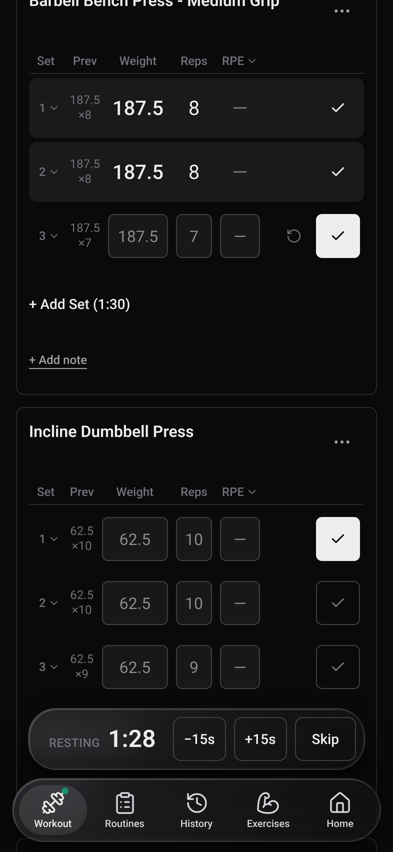
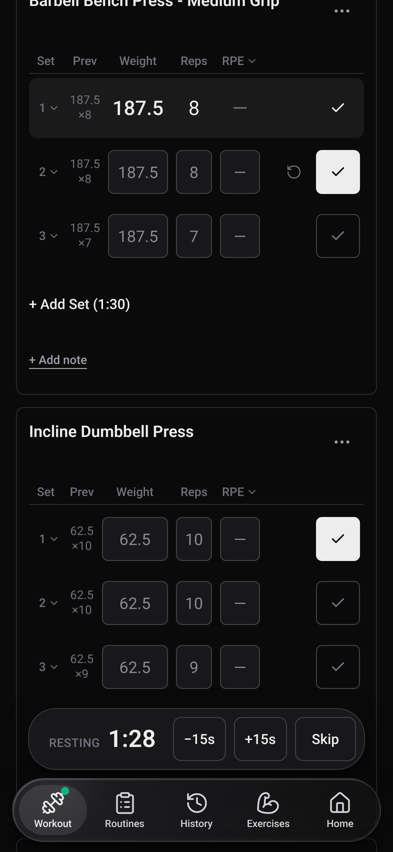
Address review: drop the timer while typing, solid timer pill with no blur (#729)
Claude-Session: https://claude.ai/code/session_01SR5G2ZrZBMs2GTziveFFfv

diff --git a/apps/web/components/bottom-tab-bar.tsx b/apps/web/components/bottom-tab-bar.tsx
@@ -33,7 +33,8 @@ export function BottomTabBar({ syncStatus }: { syncStatus?: ReactNode }) {
 
   // The bar floats over the shell's scroller rather than sitting below it, so
   // publish its height for the scroller to clear. The floating workout timers
-  // sit just above the pill itself, over the sync slot (#729).
+  // sit just above the pill itself, over the sync slot, and drop to the bottom
+  // edge while the pill is hidden for the keyboard (#729).
   useEffect(() => {
     const bar = barRef.current;
     const pill = pillRef.current;
@@ -42,10 +43,8 @@ export function BottomTabBar({ syncStatus }: { syncStatus?: ReactNode }) {
     const publish = () => {
       const barRect = bar.getBoundingClientRect();
       root.style.setProperty("--tab-bar-height", `${barRect.height}px`);
-      root.style.setProperty(
-        "--tab-pill-height",
-        `${barRect.bottom - pill.getBoundingClientRect().top}px`,
-      );
+      const pillHeight = hiddenForKeyboard ? 0 : barRect.bottom - pill.getBoundingClientRect().top;
+      root.style.setProperty("--tab-pill-height", `${pillHeight}px`);
     };
     publish();
     const observer = new ResizeObserver(publish);
@@ -55,7 +54,7 @@ export function BottomTabBar({ syncStatus }: { syncStatus?: ReactNode }) {
       root.style.removeProperty("--tab-bar-height");
       root.style.removeProperty("--tab-pill-height");
     };
-  }, []);
+  }, [hiddenForKeyboard]);
 
   return (
     // A floating Liquid Glass pill: the outer strip only positions it, and

diff --git a/apps/web/components/workout/timer-bar-chrome.ts b/apps/web/components/workout/timer-bar-chrome.ts
@@ -9,10 +9,11 @@ const DOCKED_CLASS =
  * Over the tab bar the timer floats as a glass pill of its own, just above the
  * tab pill. As a full-width opaque band it sat on top of the tab bar's sync
  * slot, so the workout showed through the gap under it and it looked like it
- * cut through the exercise cards (#729).
+ * cut through the exercise cards (#729). No backdrop blur behind its clock
+ * and buttons (#720), so `.timer-pill` is a solid fill, not glass.
  */
 const FLOATING_CLASS =
-  "tab-bar-glass sticky z-10 mx-3 flex min-w-0 items-center justify-between gap-3 rounded-[1.75rem] py-2 pl-5 pr-2";
+  "timer-pill sticky z-10 mx-3 flex min-w-0 items-center justify-between gap-3 rounded-[1.75rem] py-2 pl-5 pr-2";
 
 /** Gap between the floating timer and the tab pill under it. */
 const FLOATING_GAP = "8px";

diff --git a/apps/web/app/globals.css b/apps/web/app/globals.css
@@ -207,6 +207,21 @@ body {
   transform: translateY(calc(-1 * var(--floating-timer-height, 0px)));
 }
 
+/* The floating workout timer pill (components/workout/timer-bar-chrome.ts).
+   Shaped like the tab pill but with no backdrop-filter, since it sits behind
+   the clock and buttons (#720): a solid fill keeps them sharp. */
+.timer-pill {
+  border: 1px solid rgb(0 0 0 / 0.08);
+  background: rgb(255 255 255);
+  box-shadow: 0 10px 30px -6px rgb(0 0 0 / 0.18), 0 2px 6px rgb(0 0 0 / 0.06);
+}
+
+:root.dark .timer-pill {
+  border-color: rgb(255 255 255 / 0.12);
+  background: rgb(24 24 27);
+  box-shadow: 0 12px 32px -6px rgb(0 0 0 / 0.7), 0 2px 6px rgb(0 0 0 / 0.3);
+}
+
 /* The current tab sits in a soft lens of its own inside the pill. */
 .tab-bar-glass-active {
   background: rgb(0 0 0 / 0.06);

diff --git a/apps/web/app/__tests__/layout-guards.test.ts b/apps/web/app/__tests__/layout-guards.test.ts
@@ -27,7 +27,15 @@ describe("layout guards", () => {
       expect(bar).toContain("timerBarStyle(aboveTabBar)");
       expect(bar).toContain("usePublishFloatingTimerHeight(");
     }
+    const chrome = readFileSync(
+      path.join(webRoot, "components/workout/timer-bar-chrome.ts"),
+      "utf8",
+    );
+    expect(chrome).not.toContain("tab-bar-glass");
+    const bar = readFileSync(path.join(webRoot, "components/bottom-tab-bar.tsx"), "utf8");
+    expect(bar).toContain("hiddenForKeyboard ? 0 :");
     const css = readFileSync(path.join(webRoot, "app/globals.css"), "utf8");
+    expect(css).not.toMatch(/\.timer-pill\s*\{[^}]*backdrop-filter/);
     expect(css).toMatch(/\.tab-bar-sync-slot\s*\{[^}]*var\(--floating-timer-height/);
   });
 
